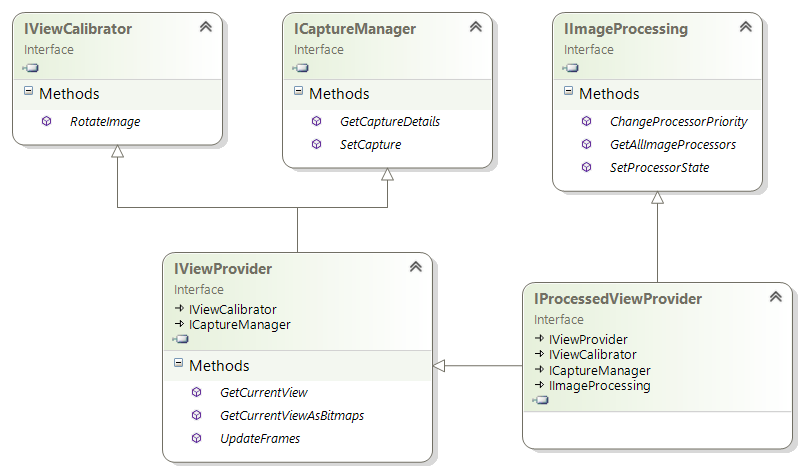
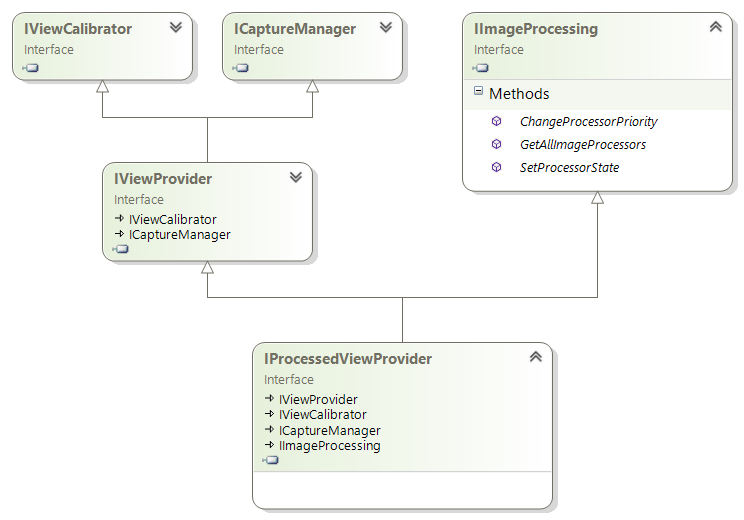
Poprawki w screenach + template na zdjecia z testow

Changed region(s): [[0.0, 0.0, 1.0, 1.0]]

diff --git a/Docs/latex/Inzynierka_szablon.tex b/Docs/latex/Inzynierka_szablon.tex
@@ -490,7 +490,7 @@ Planując wykonanie projektu droga, jaką musi przebyć obraz od przechwycenia g
 
 System składa się z modułów realizujących ściśle określone zadania, dlatego też łatwo wydzielić je do osobnych projektów. Poniższy schemat przedstawia architekturę rozwiązania wraz z zaznaczonym kierunkiem przekazywania obrazu pomiędzy warstwami. 
 
-\begin{figure}[h]
+\begin{figure}[H]
 \centering
 \includegraphics[scale=0.3]{images/architecture_schema}
 \caption[Architektura systemu]{Architektura systemu}
@@ -618,7 +618,7 @@ W tym module znajdują się wszystkie operacje, związane z przekazywaniem przec
 
 Unity3D jest silnikiem grafiki 3D i w podstawowej wersji nie wspiera obsługi urządzeń VR. Jednak producenci gogli zapewniają dedykowane biblioteki programistyczne dla swoich urządzeń, oparte na tym silniku. Pozwalają one na dodanie obsługi wirtualnej rzeczywistosci oraz sterowanie przekazywanym obrazem, dla każdego oka osobno. Wykorzystany został pakiet \textit{Oculus Utitites for Unity} udostępniany przez producenta gogli Oculus Rift (https://developer.oculus.com/downloads/unity/), który w  edytorze silnika Unity funkcjonuje pod nazwą \textit{OVR plugin}.  \hfill \\
 
-\begin{figure}[h]
+\begin{figure}[H]
 \centering
 \includegraphics[scale=0.5]{images/unityscene}
 \caption[Scena Unity]{Scena w programie Unity Editor}
@@ -787,7 +787,7 @@ Projekt uchwytu wykonał Maciej Spychała - członek Koła Naukowego Wirtualnej 
 \begin{figure}[H]
 \centering
 \includegraphics[scale=0.2]{images/googleWithCameras}
-\caption[Skonstruowane gogle]{Skonstruowane gogle}
+\caption[Skonstruowane gogle]{Gogle na głowie użytkownika}
 \end{figure}
 
 \section{Testy rozwiązania}
@@ -980,12 +980,24 @@ Wspomniane czynniki powodują istotne problemy z koordynacją wzrokowo-ruchową 
 
 W przypadku, kiedy kamery będą ustawione w taki sposób, że będą zbiegać do środka nieznacznie bardziej, niż naturalna zbieżność oczu użytkownika, to jest on w stanie skorygować to mięśniami oczu, zwiększając ich zbieżność tak, jakby patrzył na obiekt blisko położony. Umożliwia to uzyskanie efektu widzenia stereoskopowego nawet przy ustawieniu kamer nieznacznie odbiegającym od idealnego, ale jest to dyskomfortowe z powodu męczenia mięśni oczu. W przypadku dłuższego czasu użytkowania jest to~niezalecane rozwiązanie.
 
+\begin{figure}[H]
+\centering
+\includegraphics[scale=0.18]{images/googleWithCameras}
+\caption[Skonstruowane gogle]{Gogle na głowie użytkownika}
+\end{figure}
+
 \item[Czytanie książki] \hfill \\
 \textit{Opis} \\
 Czytanie książki o standardowym rozmiarze czcionki. \\
 
 \textit{Rezultat} \\
 Czytanie tekstu było możliwe, jednak wymagało większego stopnia skupienia, niż bez użycia gogli. Spowodowane jest to gorszą ostrością obrazu, niż w rzeczywistości, co~powoduje potrzebę większej koncentracji na rozpoznawaniu liter i śledzenia aktualnie czytanej linii tekstu. Z powodu wspomnianego przybliżenia obrazu, może okazać się, że czytanie książki trzymając ją w rękach na odległości do której użytkownik jest przyzwyczajony, jest niemożliwe. Książka znajduje się w takich przypadkach na~niekomfortowej odległości, przez co tekst jest zbyt duży, a ostrość kamer w tym punkcie może nie być wystarczająco dobra. Dlatego najlepsze wrażenie zostało uzyskane oddalając książkę na odległość wyprostowanych rąk lub po umieszczeniu jej na stole i oddaleniu się na odległość, która zapewniała wystarczającą ostrość obrazu.    
+
+\begin{figure}[H]
+\centering
+\includegraphics[scale=0.25]{images/lapkiTest}
+\caption[ReadingTest]{Czytanie książki}
+\end{figure}
 
 \item[Odbijanie piłki do tenisa stołowego] \hfill \\
 \textit{Opis} \\
@@ -994,12 +1006,28 @@ Czytanie tekstu było możliwe, jednak wymagało większego stopnia skupienia, n
 \textit{Rezultat}\\
 Użytkownik gogli miał duże problemy z wielokrotnym podbijaniem piłki. Pierwszą niedogodnością była konieczność trzymania paletki na mocno wyciągniętej do przodu ręce. W przypadku próby odbicia piłki znajdującej się blisko ciała,  niemożliwe było odpowiednie szybkie jej zlokalizowanie, ponieważ powiększony i przybliżony obraz powodował zawężone pole widzenia. W przypadku gdy piłka znajdowała się odpowiednio daleko, najlepsze wyniki udało się osiągnąć przy mniejszej częstotliwości odbić, a więc wtedy kiedy lot~piłki w powietrzu trwał dłużej. Użytkownik miał wtedy więcej czasu na ustalenie miejsca w którym spadnie piłka i starał się je przewidzieć. Ze względu na opóźnienie obrazu, błyskawiczna reakcja nie była możliwa dlatego, każde odbicie wymagało odpowiedniego wcześniej przewidzenia toru lotu piłki i~przygotowania paletki na jej spadek. Przy większych częstotliwościach błędy złego ustawienia paletki są mniej kosztowne, jednak wymagają szybszego czasu reakcji, który jest niemożliwy do osiągnięcia ze względu na~opóźnienie obrazu. W takich przypadkach, użytkownik odruchowo, zamiast skupiać się na przesyłanym obrazie, próbował odbijać piłkę opierając się na własnym wyczuciu, w~znacznym stopniu ignorując sygnały wzrokowe, które były rozpraszające i niezgodne z~przeczuciami po odebraniu fizycznych bodźców w ręce. 
 
+\begin{figure}[H]
+\centering
+\includegraphics[scale=0.25]{images/lapkiTest}
+\caption[BounceTest]{Odbijanie piłki}
+\end{figure}
+
 \item[Gra w łapki] \hfill \\
+
+\item [Test łapki] \hfill \\
+
 \textit{Opis} \\
 Popularna zabawa, w której największe znaczenie ma czas reakcji. Dwie osoby stają naprzeciwko siebie z wystawionymi dłońmi z przodu tak, aby dłonie jednej osoby były nad dłońmi drugiej. Zadaniem gracza, którego dłonie są niżej, jest uderzenie dłoni drugiego gracza z góry. Drugi gracz broni się poprzez zabranie rąk. Celem testu jest zbadanie jak~użytkownik gogli poradzi sobie przeciwko graczowi bez gogli. \\
 
 \textit{Rezultat}\\
 Użytkownik gogli nie miał problemu, jeśli jego rolą było uderzenie rąk przeciwnika. Jednak w tym przypadku, opóźnienie obrazu docierającego do oka miało niewielkie znaczenie, ponieważ nie wpływało ono na odruchowo wykonywane uderzenie, które można przeprowadzić równie skutecznie z zamkniętymi oczami. Test wykazał trudności, gdy~użytkownik gogli musiał bronić się unikając uderzenia drugiej osoby. Opóźnienie obrazu było na tyle duże, że uniknięcie uderzenia było niemożliwe ponieważ uczucie uderzenie dochodziło do mózgu w podobnym czasie co zauważenie ruchu ręki drugiej osoby.
+
+\begin{figure}[H]
+\centering
+\includegraphics[scale=0.25]{images/lapkiTest}
+\caption[LapkiTest]{Test łapki}
+\end{figure}
+
 
 \item[Chwytanie przedmiotu] \hfill \\
 \textit{Opis} \\
@@ -1008,6 +1036,12 @@ Do wykonania testu potrzebne są dwie osoby oraz mały przedmiot, na przykład m
 \textit{Rezultat} \\
 Podczas tego testu można było zaobserwować dwa czynniki wpływające negatywnie na wynik użytkownika gogli. Pierwszym z czynników było opóźnienie obrazu, które powodowało, że użytkownik zauważał odkrycie przedmiotu po upływie ułamka sekundy. Drugim czynnikiem jest dezorientacja, spowodowana przybliżeniem obrazu, która została wspomniana w ogólnych wnioskach z testów. Powoduje ona, że użytkownik próbując odruchowo jak najszybciej złapać przedmiot, nie trafia w niego przy pierwszej próbie i musi korygować swój ruch w celu złapania przedmiotu. Jeśli użytkownik chciał być dokładny podczas pierwszego ruchu, musiał on wykonać go znacznie wolniej, próbując kontrolować rękę w trakcie jej ruchu. Wymagało to porównania jej pozycji z obrazem docierającym do mózgu. Z tego powodu precyzyjne złapanie przedmiotu jest wykonywane dużo wolniej i~przy większym skupieniu, niż bez założonych gogli.
 
+\begin{figure}[H]
+\centering
+\includegraphics[scale=0.25]{images/lapkiTest}
+\caption[CaptureTest]{Chwytanie przedmiotu}
+\end{figure}
+
 \item[Celowanie laserem w punkt (statyczny lub dynamiczny)] \hfill \\
 \textit{Opis} \\
 Za pomocą wskaźnika laserowego użytkownik musi wskazać wyświetlony na ekranie punkt. Ekran znajduje się w znacznej odległości od użytkownika, która pozwala na to aby punkt był dobrze widoczny jednak musi zapewniać stabilną ostrość obrazu.
@@ -1015,12 +1049,24 @@ Za pomocą wskaźnika laserowego użytkownik musi wskazać wyświetlony na ekran
 \textit{Rezultat} \\
 Celując w statyczny punkt, użytkownik nie miał problemu z trafieniem go za pomocą wskaźnika. Dobry efekt udało się osiągnąć, ponieważ ruchy ręką ze wskaźnikiem wykonywane są odruchowo. Znaczna odległość od celu powoduje, że zachowana jest wysoka ostrość obrazu. Pierwsze wykonywane ruchy wymagają większej koncentracji i~obserwacji reakcji wskaźnika na ruch ręką, jednak użytkownik bardzo szybko zyskuje świadomość efektu swoich ruchów, przez co jest w stanie bardzo szybko zbliżyć wskaźnik do~wyświetlanego punktu, a następnie dokonać tylko drobnej korekty jego położenia, w celu dokładnego trafienia. Gorszy rezultat został osiągnięty podczas testów z dynamicznym, poruszającym się po ekranie punktem. Podobnie jak w pozostałych testach, opóźnienie przesyłu obrazu miało bardzo duże znaczenie. Przy odpowiednio szybko zmieniającym się płynnie położeniu punktu, użytkownik nie był w stanie nadążyć za punktem i~jego zmianami kierunku ruchu. Podczas tych prób, trafienie w punkt było rezultatem czysto przypadkowym lub próbą odgadnięcia przez użytkownika gdzie pojawi się punkt w~następnej chwili, jednak śledzenie punktu za pomocą wskaźnika nie było możliwe.
 
+\begin{figure}[H]
+\centering
+\includegraphics[scale=0.25]{images/lapkiTest}
+\caption[AimingTest]{Celowanie laserem}
+\end{figure}
+
 \item[Rzucanie piłką do celu] \hfill \\
 \textit{Opis} \\
 Do wykonania testu potrzebna jest piłka tenisowa oraz wyznaczony cel. 
 
 \textit{Rezultat} \\
 Użytkownik rzucał piłką tenisową, próbując trafić do rąk osoby stojącej na przeciwko niego. W czasie tego testu, najbardziej zauważalna była wada związana z nadmiernym przybliżeniem obrazu. Użytkownikowi wydawało się, że stojąca naprzeciwko osoba znajduje się dużo bliżej niego, niż w rzeczywistości. Dlatego też rzucał piłką ze zbyt małą siła lub~zbyt nisko unosząc rękę. Oszacowanie odległości było na tyle mylące, że piłka dotykała ziemi zwykle już w połowie odległości pomiędzy użytkownikiem, a celem.
+
+\begin{figure}[H]
+\centering
+\includegraphics[scale=0.25]{images/lapkiTest}
+\caption[ThrowingTest]{Rzucanie piłką}
+\end{figure}
 
 \end{description}
 
